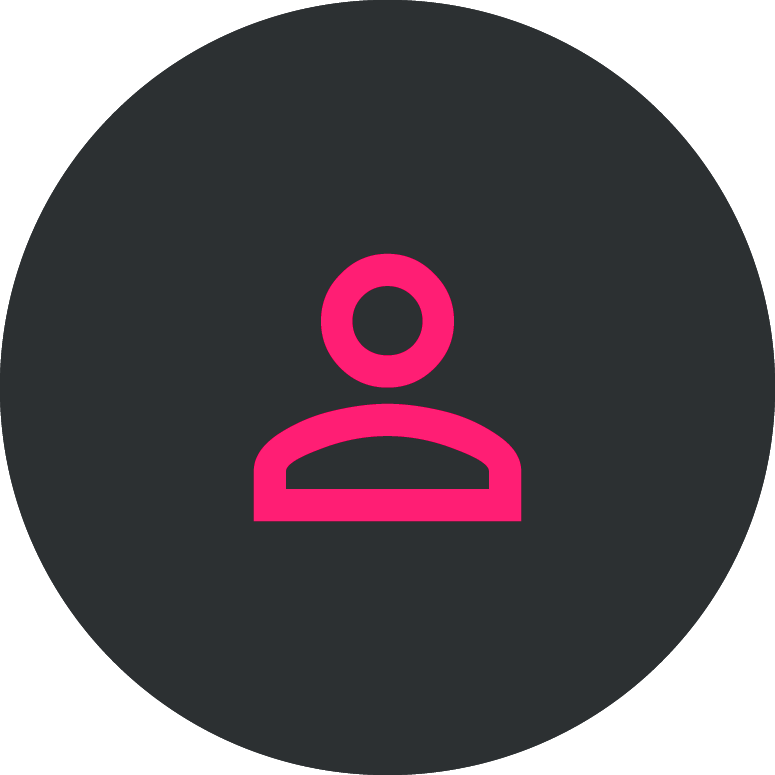
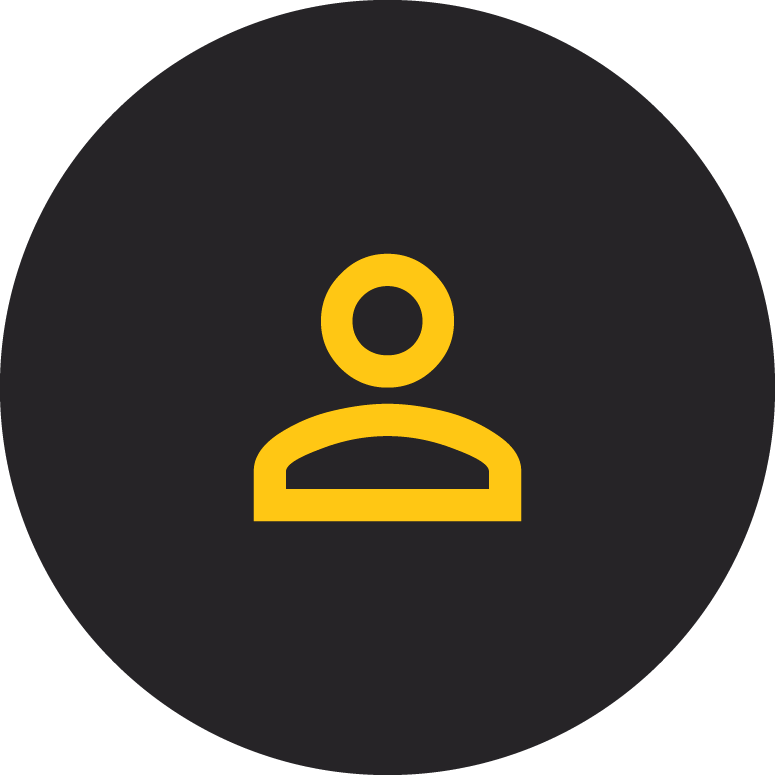
annotations resolved

diff --git a/src/pages/Annotations/index.jsx b/src/pages/Annotations/index.jsx
@@ -1,71 +1,83 @@
-import { Container, Content, Form, Tags } from "./style";
+import { Container, Content, Form, Tags, SectionStar } from "./style";
+
+import avatarPlaceholder from "../../assets/avatardefault.png";
+
+import { Rating } from "../../components/Ratings";
 import { Header } from "../../components/Header";
 import { Tag } from "../../components/Tag";
 import { TitleStar } from "../../components/TitleStar";
+import { Button } from "../../components/Button";
 import { AiOutlineArrowLeft } from "react-icons/ai";
 import { BiTime } from "react-icons/bi";
-import { Link } from "react-router-dom";
+import { Link, useParams } from "react-router-dom";
+import { useEffect, useState } from "react";
+import { useNavigate } from "react-router-dom";
+import { api } from "../../services/api";
+import { useAuth } from "../../hooks/auth";
 
 export function Annotations() {
+  const { user } = useAuth();
+
+  const avatarUrl = user.avatar
+    ? `${api.defaults.baseURL}/files/${user.avatar}`
+    : avatarPlaceholder;
+
+  const [data, setData] = useState(null);
+
+  const params = useParams();
+
+  useEffect(() => {
+    async function showNote() {
+      const response = await api.get(`/notes/${params.id}`);
+      setData(response.data);
+    }
+
+    showNote();
+  }, []);
+
+  const navigate = useNavigate();
+
+  async function deleteNote() {
+    const confirm = window.confirm("Deseja excluir?");
+    if (confirm) {
+      await api.delete(`/notes/${params.id}`);
+      navigate("/");
+    } else {
+      return;
+    }
+  }
+
   return (
     <Container>
       <Header />
-      <Content>
-        <Link to="/details">
-          <AiOutlineArrowLeft />
-          Voltar
-        </Link>
+      {data && (
+        <Content>
+          <Link to="/">
+            <AiOutlineArrowLeft />
+            Voltar
+          </Link>
 
-        <TitleStar title="The Witcher" />
+          <SectionStar>
+            <TitleStar title={data.title} />
+            <Rating rating={data.rating} />
+          </SectionStar>
 
-        <Form>
-          <img src="https://www.github.com/lokeon22.png" />
-          <span>Por Gabriel Felipe</span>
-          <BiTime size={20} />
-          <span>23/05/22 às 08:00</span>
-        </Form>
+          <Form>
+            <img src={avatarUrl} />
+            <span>{user.name}</span>
+            <BiTime size={20} />
+            <span>{data.created_at}</span>
+          </Form>
 
-        <Tags>
-          <Tag title="Ficção Científica" />
-          <Tag title="Drama" />
-          <Tag title="Família" />
-        </Tags>
-        <p>
-          Pragas nas colheitas fizeram a civilização humana regredir para uma
-          sociedade agrária em futuro de data desconhecida. Cooper, ex-piloto da
-          NASA, tem uma fazenda com sua família. Murphy, a filha de dez anos de
-          Cooper, acredita que seu quarto está assombrado por um fantasma que
-          tenta se comunicar com ela. Pai e filha descobrem que o "fantasma" é
-          uma inteligência desconhecida que está enviando mensagens codificadas
-          através de radiação gravitacional, deixando coordenadas em binário que
-          os levam até uma instalação secreta da NASA liderada pelo professor
-          John Brand. O cientista revela que um buraco de minhoca foi aberto
-          perto de Saturno e que ele leva a planetas que podem oferecer
-          condições de sobrevivência para a espécie humana. As "missões Lázaro"
-          enviadas anos antes identificaram três planetas potencialmente
-          habitáveis orbitando o buraco negro Gargântua: Miller, Edmunds e Mann
-          – nomeados em homenagem aos astronautas que os pesquisaram. Brand
-          recruta Cooper para pilotar a nave espacial Endurance e recuperar os
-          dados dos astronautas; se um dos planetas se mostrar habitável, a
-          humanidade irá seguir para ele na instalação da NASA, que é na
-          realidade uma enorme estação espacial. A partida de Cooper devasta
-          Murphy.
-        </p>
-
-        <p>
-          Além de Cooper, a tripulação da Endurance é formada pela bióloga
-          Amelia, filha de Brand; o cientista Romilly, o físico planetário
-          Doyle, além dos robôs TARS e CASE. Eles entram no buraco de minhoca e
-          se dirigem a Miller, porém descobrem que o planeta possui enorme
-          dilatação gravitacional temporal por estar tão perto de Gargântua:
-          cada hora na superfície equivale a sete anos na Terra. Eles entram em
-          Miller e descobrem que é inóspito já que é coberto por um oceano raso
-          e agitado por ondas enormes. Uma onda atinge a tripulação enquanto
-          Amelia tenta recuperar os dados de Miller, matando Doyle e atrasando a
-          partida. Ao voltarem para a Endurance, Cooper e Amelia descobrem que
-          23 anos se passaram.
-        </p>
-      </Content>
+          <Tags>
+            {data.tags.map((tag) => (
+              <Tag key={tag.id} title={tag.name} />
+            ))}
+          </Tags>
+          <p>{data.description}</p>
+          <Button title="Excluir nota" onClick={deleteNote} />
+        </Content>
+      )}
     </Container>
   );
 }

diff --git a/src/pages/Details/index.jsx b/src/pages/Details/index.jsx
@@ -1,7 +1,7 @@
 import { Container, Content } from "./style";
 import { Header } from "../../components/Header";
 import { Button } from "../../components/Button";
-
+import { NoNotes } from "../../components/NoNotes";
 import { Note } from "../../components/Note";
 import { Input } from "../../components/Input";
 import { AiOutlineSearch } from "react-icons/ai";
@@ -30,6 +30,10 @@ export function Details() {
     navigate("/new");
   }
 
+  function handleNavigateDetails(id) {
+    navigate(`/annotations/${id}`);
+  }
+
   return (
     <Container>
       <Header />
@@ -50,9 +54,17 @@ export function Details() {
         </label>
 
         <Content>
-          {notes.map((note, index) => (
-            <Note key={index} data={note} />
-          ))}
+          {notes.length > 0 ? (
+            notes.map((note) => (
+              <Note
+                key={note.id}
+                data={note}
+                onClick={() => handleNavigateDetails(note.id)}
+              />
+            ))
+          ) : (
+            <NoNotes />
+          )}
         </Content>
       </main>
     </Container>

diff --git a/src/pages/Annotations/style.js b/src/pages/Annotations/style.js
@@ -22,6 +22,15 @@ export const Content = styled.div`
     margin-top: 40px;
     text-align: justify;
   }
+
+  button {
+    width: 200px;
+    background-color: ${({ theme }) => theme.COLORS.BACKGROUND_900};
+    color: ${({ theme }) => theme.COLORS.PINK};
+    margin-top: 48px;
+    font-size: 0.9rem;
+    border: 1px dashed ${({ theme }) => theme.COLORS.PINK};
+  }
 `;
 
 export const Form = styled.form`
@@ -45,4 +54,15 @@ export const Tags = styled.div`
   display: flex;
   align-items: center;
   gap: 8px;
+
+  > span {
+    color: ${({ theme }) => theme.COLORS.BACKGROUND_800};
+  }
+`;
+
+export const SectionStar = styled.div`
+  display: flex;
+  align-items: center;
+  margin: 0;
+  gap: 22px;
 `;

diff --git a/src/components/Ratings/index.jsx b/src/components/Ratings/index.jsx
@@ -1,0 +1,14 @@
+import { Container } from "./style";
+import { AiFillStar, AiOutlineStar } from "react-icons/ai";
+
+export function Rating({ rating }) {
+  return (
+    <Container>
+      <span>{rating >= 1 ? <AiFillStar /> : <AiOutlineStar />}</span>
+      <span>{rating >= 2 ? <AiFillStar /> : <AiOutlineStar />}</span>
+      <span>{rating >= 3 ? <AiFillStar /> : <AiOutlineStar />}</span>
+      <span>{rating >= 4 ? <AiFillStar /> : <AiOutlineStar />}</span>
+      <span>{rating >= 5 ? <AiFillStar /> : <AiOutlineStar />}</span>
+    </Container>
+  );
+}

diff --git a/src/components/TitleStar/style.js b/src/components/TitleStar/style.js
@@ -3,20 +3,14 @@ import styled from "styled-components";
 export const Container = styled.div`
   display: flex;
   align-items: center;
-  margin: 24px 0;
-  gap: 8px;
+  margin-top: 24px;
+  margin-bottom: 5px;
+  margin-right: 0;
+  margin-left: 0;
 
   h2 {
     font-size: 2.25rem;
     font-weight: 500;
     color: ${({ theme }) => theme.COLORS.WHITE};
-  }
-
-  > svg {
-    color: ${({ theme }) => theme.COLORS.PINK};
-
-    &:hover {
-      color: ${({ theme }) => theme.COLORS.WHITE};
-    }
   }
 `;

diff --git a/src/components/TitleStar/index.jsx b/src/components/TitleStar/index.jsx
@@ -1,15 +1,9 @@
 import { Container } from "./style";
-import { AiOutlineStar } from "react-icons/ai";
 
 export function TitleStar({ title }) {
   return (
     <Container>
       <h2>{title}</h2>
-      <AiOutlineStar size={20} />
-      <AiOutlineStar size={20} />
-      <AiOutlineStar size={20} />
-      <AiOutlineStar size={20} />
-      <AiOutlineStar size={20} />
     </Container>
   );
 }

diff --git a/src/routes/app.routes.jsx b/src/routes/app.routes.jsx
@@ -10,7 +10,7 @@ export function AppRoutes() {
     <Routes>
       <Route path="/profile" element={<Profile />} />
       <Route path="/" element={<Details />} />
-      <Route path="/annotations" element={<Annotations />} />
+      <Route path="/annotations/:id" element={<Annotations />} />
       <Route path="/new" element={<New />} />
     </Routes>
   );

diff --git a/src/components/Ratings/style.js b/src/components/Ratings/style.js
@@ -1,0 +1,15 @@
+import styled from "styled-components";
+
+export const Container = styled.div`
+  display: flex;
+  align-items: center;
+  margin-top: 24px;
+  gap: 10px;
+  > span {
+    color: ${({ theme }) => theme.COLORS.PINK};
+    svg {
+      width: 20px;
+      height: 20px;
+    }
+  }
+`;

diff --git a/src/components/NoNotes/style.js b/src/components/NoNotes/style.js
@@ -1,0 +1,11 @@
+import styled from "styled-components";
+
+export const Container = styled.p`
+  width: 100%;
+  height: 100%;
+  font-size: 1.5rem;
+  text-align: center;
+  color: ${({ theme }) => theme.COLORS.PINK};
+  margin-top: 48px;
+  opacity: 0.45;
+`;

diff --git a/src/pages/Login/style.js b/src/pages/Login/style.js
@@ -1,6 +1,6 @@
 import styled from "styled-components";
 
-import BackgroundImg from "../../assets/bg.gif";
+import BackgroundImg from "../../assets/background.png";
 
 export const Container = styled.section`
   width: 100%;

diff --git a/src/styles/theme.js b/src/styles/theme.js
@@ -6,7 +6,7 @@ export default {
     BACKGROUND_600: "rgba(255, 133, 155, 0.05)",
 
     WHITE: "#F4EDE8",
-    PINK: "#FF859B",
+    PINK: "#FFBF00",
 
     GRAY_100: "#948F99",
     GRAY_300: "#3E3B47",

diff --git a/src/components/Note/index.jsx b/src/components/Note/index.jsx
@@ -1,5 +1,4 @@
 import { Container } from "./style";
-import { AiOutlineStar } from "react-icons/ai";
 import { Tag } from "../Tag";
 
 export function Note({ data, ...rest }) {
